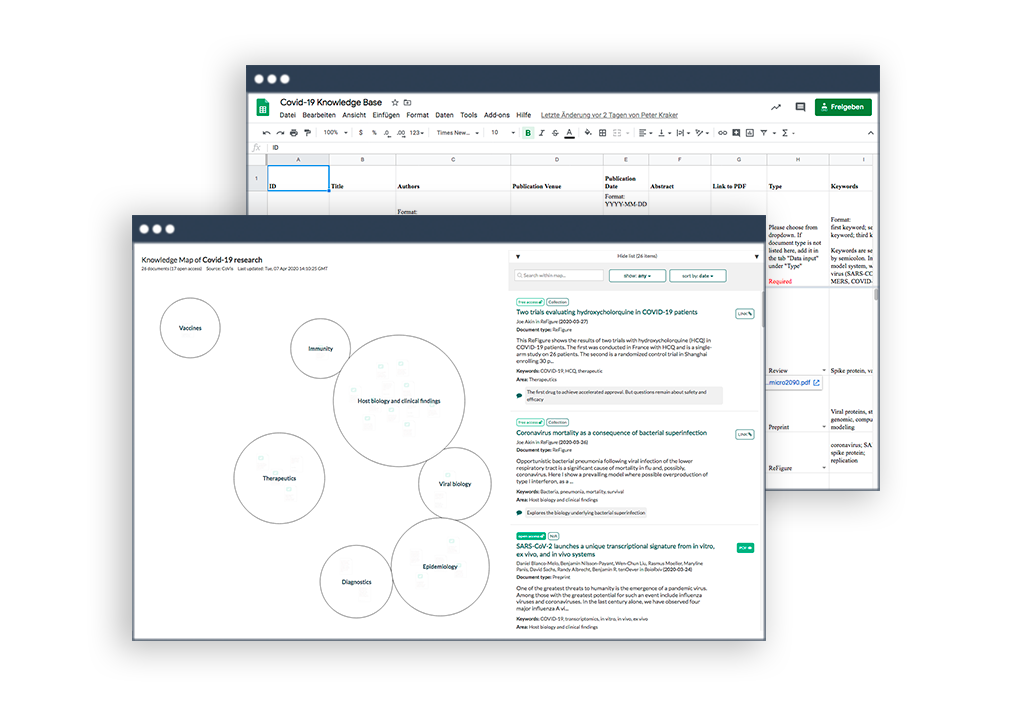
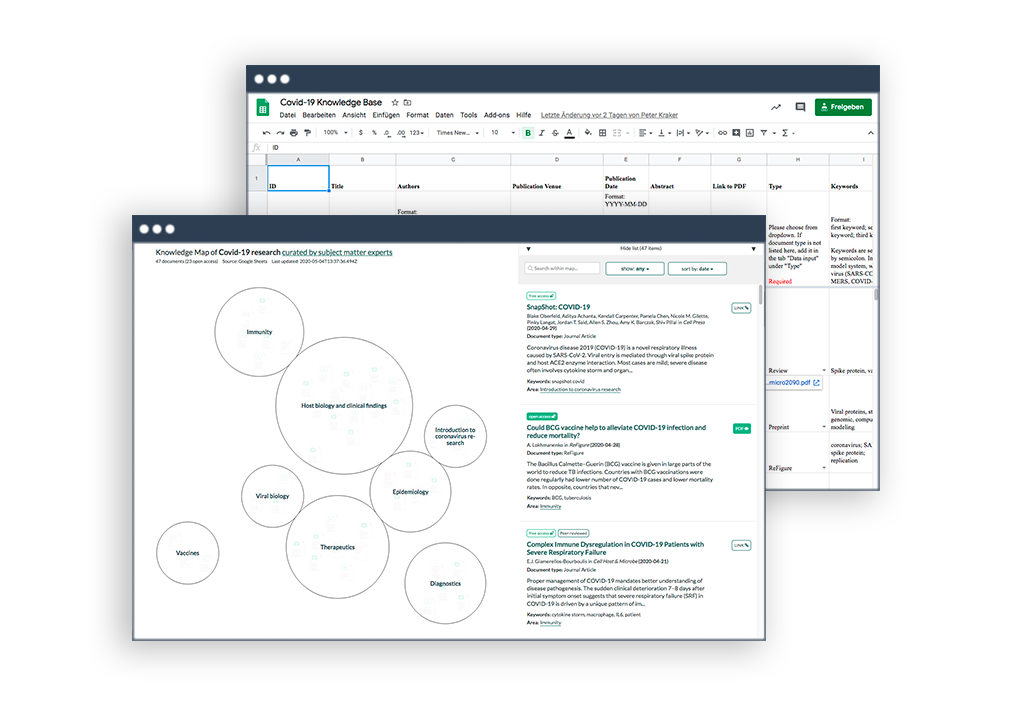
added pop-up text suggestion, updatet km images and other small issues

diff --git a/data-config.js b/data-config.js
@@ -53,7 +53,7 @@ var data_config = {
     
     intro: {
       title:"Knowledge Map of Covid-19 research curated by subject matter experts"
-      , body: "<h3>About Covis</h3><p>add more info</p><p><a class='link-popup' href='faqs'>Read our FAQs to find out more</a>.</p><h3>Data Source</h3><p>add more info</p><p><a class='link-popup' target='_blank' href='contact-us'>Get in touch</a></p><h3>Software</h3><p>The knowledge map is based on open source software developed by <a target='_blank' class='link-popup' href='https://openknowledgemaps.org/'>Open Knowledge Maps</a>.</p>"
+      , body: "<h3>About Covis</h3><p>In the current pandemic, many researchers seek valid scientific data and findings on Covid-19. To support them, Open Knowledge Maps and ReFigure have launched CoVis. CoVis provides a curated knowledge map of seminal works on Covid-19 research. The knowledge map is constantly evolving thanks to the collective editing of subject-matter experts.</p><p><a class='link-popup' href='faqs'>Read our FAQs to find out more</a>.</p><h3>Data Source curated by ReFigure</h3><p>Given the fast pace of research and the limited historical data on Covid-19, many findings are under debate and only understandable after reading several reports from different sources.</p><p>Team ReFigure creates visual, easy to understand, annotated, figure collections which provide analyses and consensus on key issues. Boston based scientists and ReFigure founders Drs. Goyal and Akin are immunology experts and also form our starting database curation team.</p><p>They are also looking for subject-matter experts to help them in their efforts.</p><p><a class='link-popup' target='_blank' href='contact-us'>Please get in touch</a>, if you'd like to add research to the data source.</p><h3>Software created by Open Knowledge Maps</h3><p>CoVis visualization is achieved using award-winning software <a target='_blank' class='link-popup' href='https://openknowledgemaps.org/'>developed by Open Knowledge Maps</a>. The software creates visual overviews of research fields, alongside relevant resources, annotated with keywords, comments and tags. The visual interface allows the user to explore a large amount of resources with ease on a single page and all the publications are linked; those that are open access can be downloaded directly from the interface.</p>"
     },
     
     localization: {

diff --git a/main.css b/main.css
@@ -241,6 +241,11 @@ img {
     display: none;
 }
 
+.desktop-footer {
+    display: block;
+    position: relative;
+}
+
 /*headstart footer*/
 .knowledge-map footer {
     background-color: #1e6662;
@@ -291,11 +296,11 @@ img {
         max-width: 40%;
     }
 
-    .credits {
+    .credits, .mobile-footer .credits2 {
         width: 60%;
     }
 
-    .credits2 {
+    .credits2, .mobile-footer .credits2 {
         width: 30%;
     }
 
@@ -343,14 +348,14 @@ img {
         display: none;
     }
 
-    .credits { 
+    .credits, .mobile-footer .credits { 
         width: 100%;
         display: block;
         text-align: left;
         padding-bottom: 20px;
     }
 
-    .credits2 {
+    .credits2, .mobile-footer .credits2 {
         width: 100%;
         display: block;
         padding-left: 20px;
@@ -384,7 +389,7 @@ img {
     .page-headline {
         margin-top: 0px;
     }
-    
+
     .question {
         padding: 20px 0 10px;
     }

diff --git a/faqs.php b/faqs.php
@@ -52,12 +52,13 @@ include 'config.php';
                 <h4 class="question">How do you decide what is included / excluded in the knowledge map?</h4>
 
                 <p class="paragraph-style">
-                    Describe the collaborative editing process here.
+                    Please add criteria etc. here.
                 </p>
 
                 <h4 class="question">How can I contribute to CoVis?</h4>
 
                 <p class="paragraph-style">
+                    Describe the collaborative editing process here.
                     Please check the <a href="contact-us">contact page</a>.
                 </p>
                 
@@ -78,14 +79,14 @@ include 'config.php';
                 <h4 class="question">Can I create my own CoVis for another research topic?</h4>
 
                 <p class="paragraph-style">
-                    CoVis is only avialable for Covid-19 research for now. But
+                    CoVis is only available for Covid-19 research for now. But
                     you can automatically create knowledge maps for any research topic on <a href="https://openknowledgemaps.org" target="_blank">openknowledgemaps.org</a>. These knowledge maps are based on 150 mio. documents from any discipline.
                 </p>
 
                 <h4 class="question">How is CoVis funded?</h4>
 
                 <p class="paragraph-style">
-                    At the moment we are looking for funding. Please <a href="contact-us">get in touch</a> if you'd like to fund us.
+                   Add funder. Please <a href="contact-us">get in touch</a> if you'd like to fund us.
                 </p>
                 
                 <h4 class="question">I have a question that is not listed here</h4>

diff --git a/footer.php b/footer.php
@@ -1,8 +1,8 @@
 <footer class="desktop-footer">
     
     <div class="credits2">
-    <a href="https://openknowledgemaps.org/privacy">Privacy Policy</a>
-    <a href="https://openknowledgemaps.org/imprint#legalnotice">Legal Notice</a>
+    <a target="_blank" href="https://openknowledgemaps.org/privacy">Privacy Policy</a>
+    <a target="_blank" href="https://openknowledgemaps.org/imprint#legalnotice">Legal Notice</a>
     </div>
     
     <div class="credits"><span style="vertical-align: middle;">Project partners:</span>
